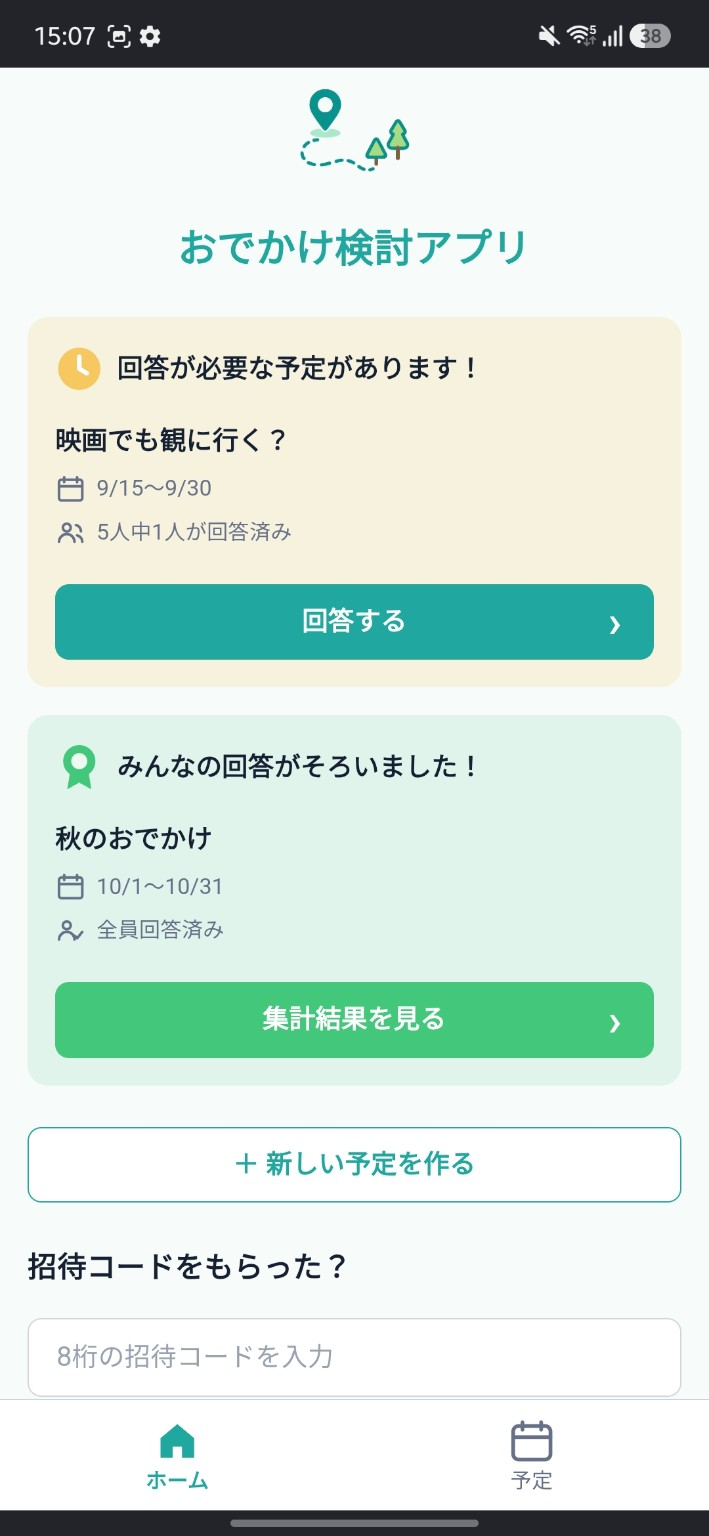
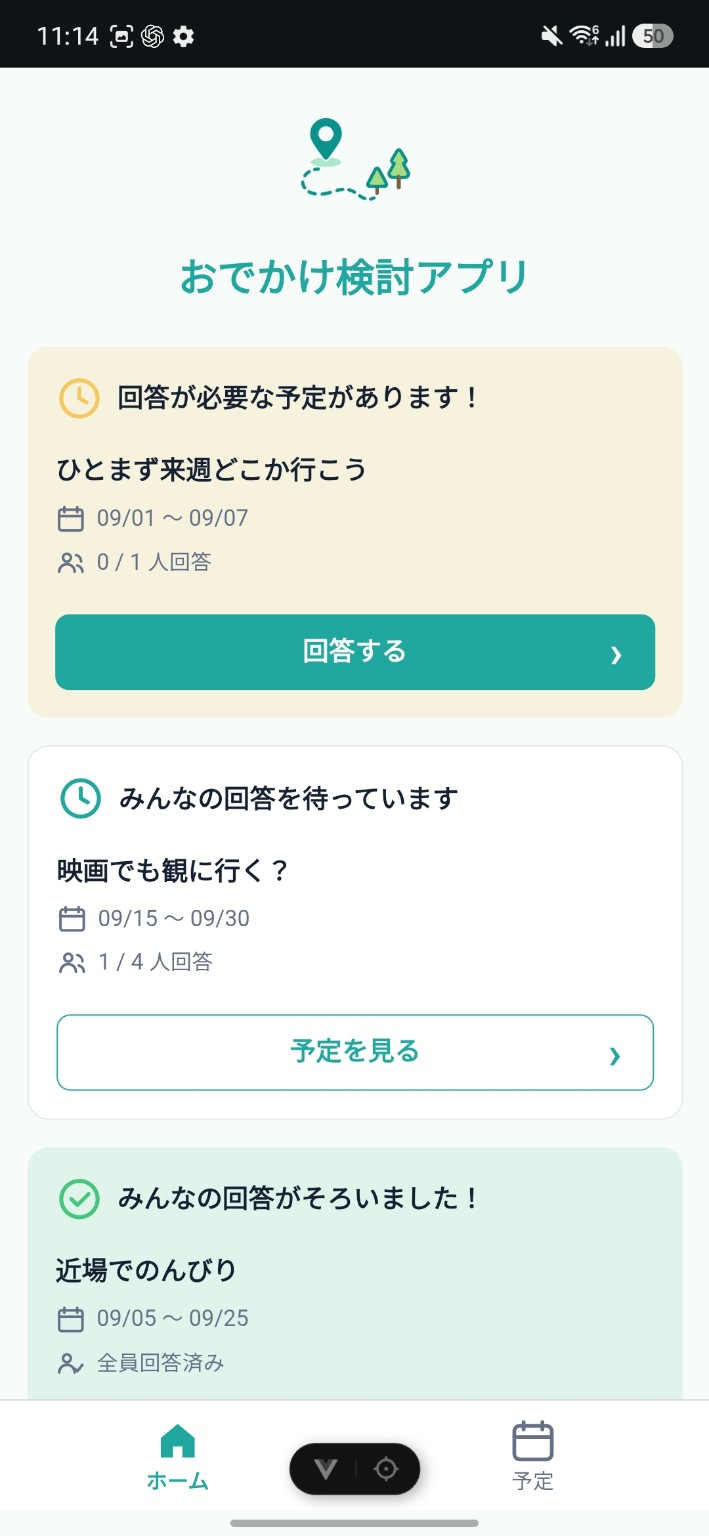
README 更新

diff --git a/README.md b/README.md
@@ -28,41 +28,79 @@
 
 ## Screenshots
 
-### 予定の状況をひと目で確認
+予定を作成し、参加者それぞれが希望を回答すると、その内容を予定ごとに確認・集計できます。  
+ここでは、実際におでかけを決めていく流れに沿って主な画面を紹介します。
+
+### 1. 予定を作る
+
+<p align="center">
+  <img src="./docs/images/schedule-create.png" width="320" alt="予定作成画面">
+</p>
+
+予定名と候補期間を設定し、予定を作成します。  
+移動方法は「各自で選ぶ」または「電車で行く」から予定ごとに設定できます。
+
+### 2. 希望を回答する
+
+<table>
+  <tr>
+    <td align="center" width="50%">
+      <img src="./docs/images/condition-input-1.png" width="300" alt="希望条件の回答画面 上部">
+    </td>
+    <td align="center" width="50%">
+      <img src="./docs/images/condition-input-2.png" width="300" alt="希望条件の回答画面 移動条件">
+    </td>
+  </tr>
+</table>
+
+参加者は候補期間から遊べる日を選び、やりたいことや行きたい場所・ジャンルを回答します。  
+各自で移動方法を選ぶ予定では、徒歩・車・条件なしから選択でき、必要な場合だけ出発地点と移動可能時間を入力します。出発地点は地図でも確認できます。
+
+### 3. 今やることをホームで確認する
 
 <p align="center">
   <img src="./docs/images/home.png" width="320" alt="ホーム画面">
 </p>
 
-ホームでは、回答が必要な予定と全員の回答がそろった予定を分けて表示します。  
-自分が次に何をすればよいかをひと目で確認でき、回答や集計結果へすぐにアクセスできます。
+ホームでは、予定を「自分の回答が必要」「みんなの回答待ち」「全員回答済み」の状態に応じて案内します。  
+回答、予定詳細、集計結果など、その時点で自分に必要な操作へすぐ進めます。
 
-### それぞれの希望を回答
+### 4. 参加中の予定を探す
 
 <p align="center">
-  <img src="./docs/images/condition-input.png" width="320" alt="希望条件の回答画面">
+  <img src="./docs/images/schedule-list.png" width="320" alt="予定一覧画面">
 </p>
 
-参加者は候補日から参加できる日を選び、「なにしたい？」などのおでかけ条件を回答します。  
-複数選択できる項目は、選択状態が直感的に分かるUIにしています。
+予定一覧では、参加中の予定を回答状況ごとに整理して表示します。  
+予定名・日程・回答進捗・自分の回答状態を確認しながら、目的の予定を探せます。
 
-### みんなの回答状況を確認
+### 5. 回答状況と自分の回答を確認する
 
 <p align="center">
   <img src="./docs/images/schedule-detail.png" width="320" alt="予定詳細画面">
 </p>
 
-予定ごとに参加者の回答状況を確認できます。  
-自分の回答内容もまとめて表示し、回答後の確認や変更、集計結果への移動をひとつの画面から行えます。
+予定詳細では、参加者の回答状況と自分が回答した内容をまとめて確認できます。  
+回答の変更、集計結果の確認、友達の招待もこの画面から行えます。
 
-### 希望の重なりを見つける
+### 6. みんなの希望を集計する
 
-<p align="center">
-  <img src="./docs/images/result.png" width="320" alt="集計結果画面">
-</p>
+<table>
+  <tr>
+    <td align="center" width="33%">
+      <img src="./docs/images/result-1.png" width="240" alt="集計結果 まとまっている希望">
+    </td>
+    <td align="center" width="33%">
+      <img src="./docs/images/result-2.png" width="240" alt="集計結果 詳しい集計">
+    </td>
+    <td align="center" width="33%">
+      <img src="./docs/images/result-3.png" width="240" alt="集計結果 移動できそうな範囲">
+    </td>
+  </tr>
+</table>
 
-参加者全員の回答を集計し、希望が最も一致している条件を表示します。  
-候補ごとの回答人数も可視化することで、「全員一致ではないけれど、多くの人が希望している候補」まで比較できます。
+回答が集まると、「いつ？」「なにする？」「どこ？」それぞれで、いま最もまとまっている希望を確認できます。  
+さらに候補ごとの人数・票数や移動方法を比較でき、徒歩・車の回答では出発地点と移動時間から算出したおおよその移動範囲も地図上に表示します。
 
 ## このアプリで解決したいこと
 
